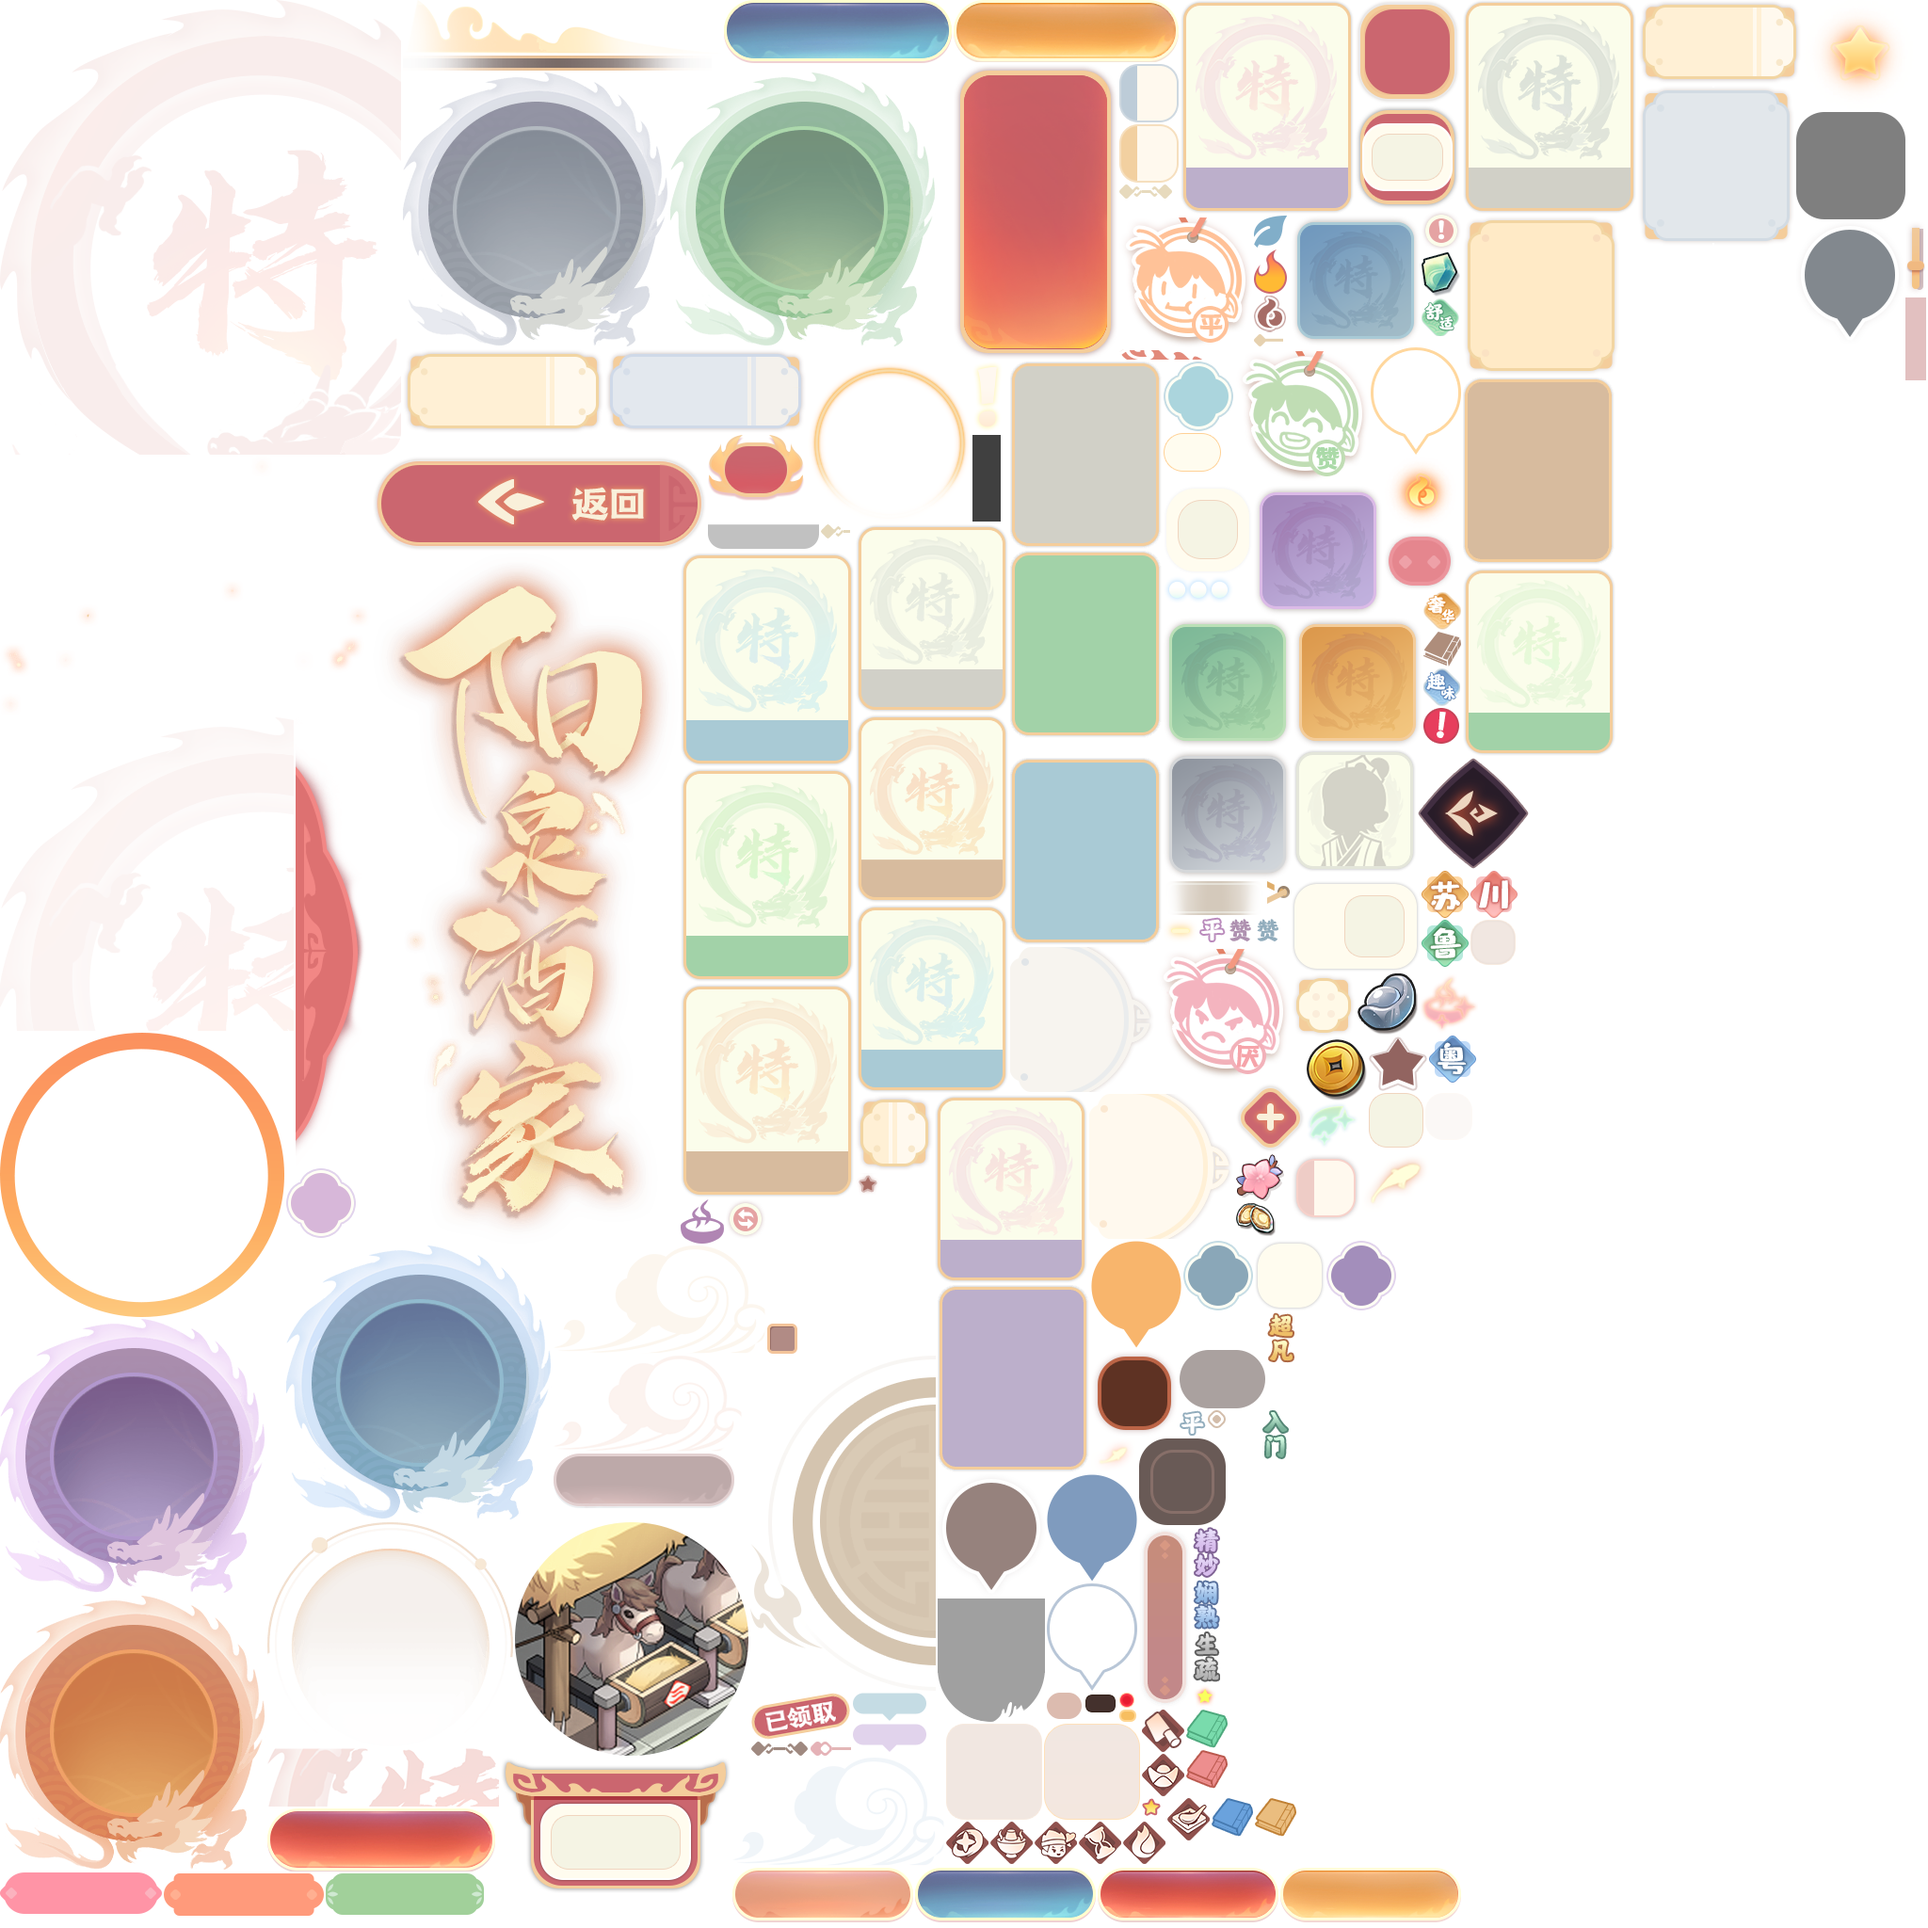
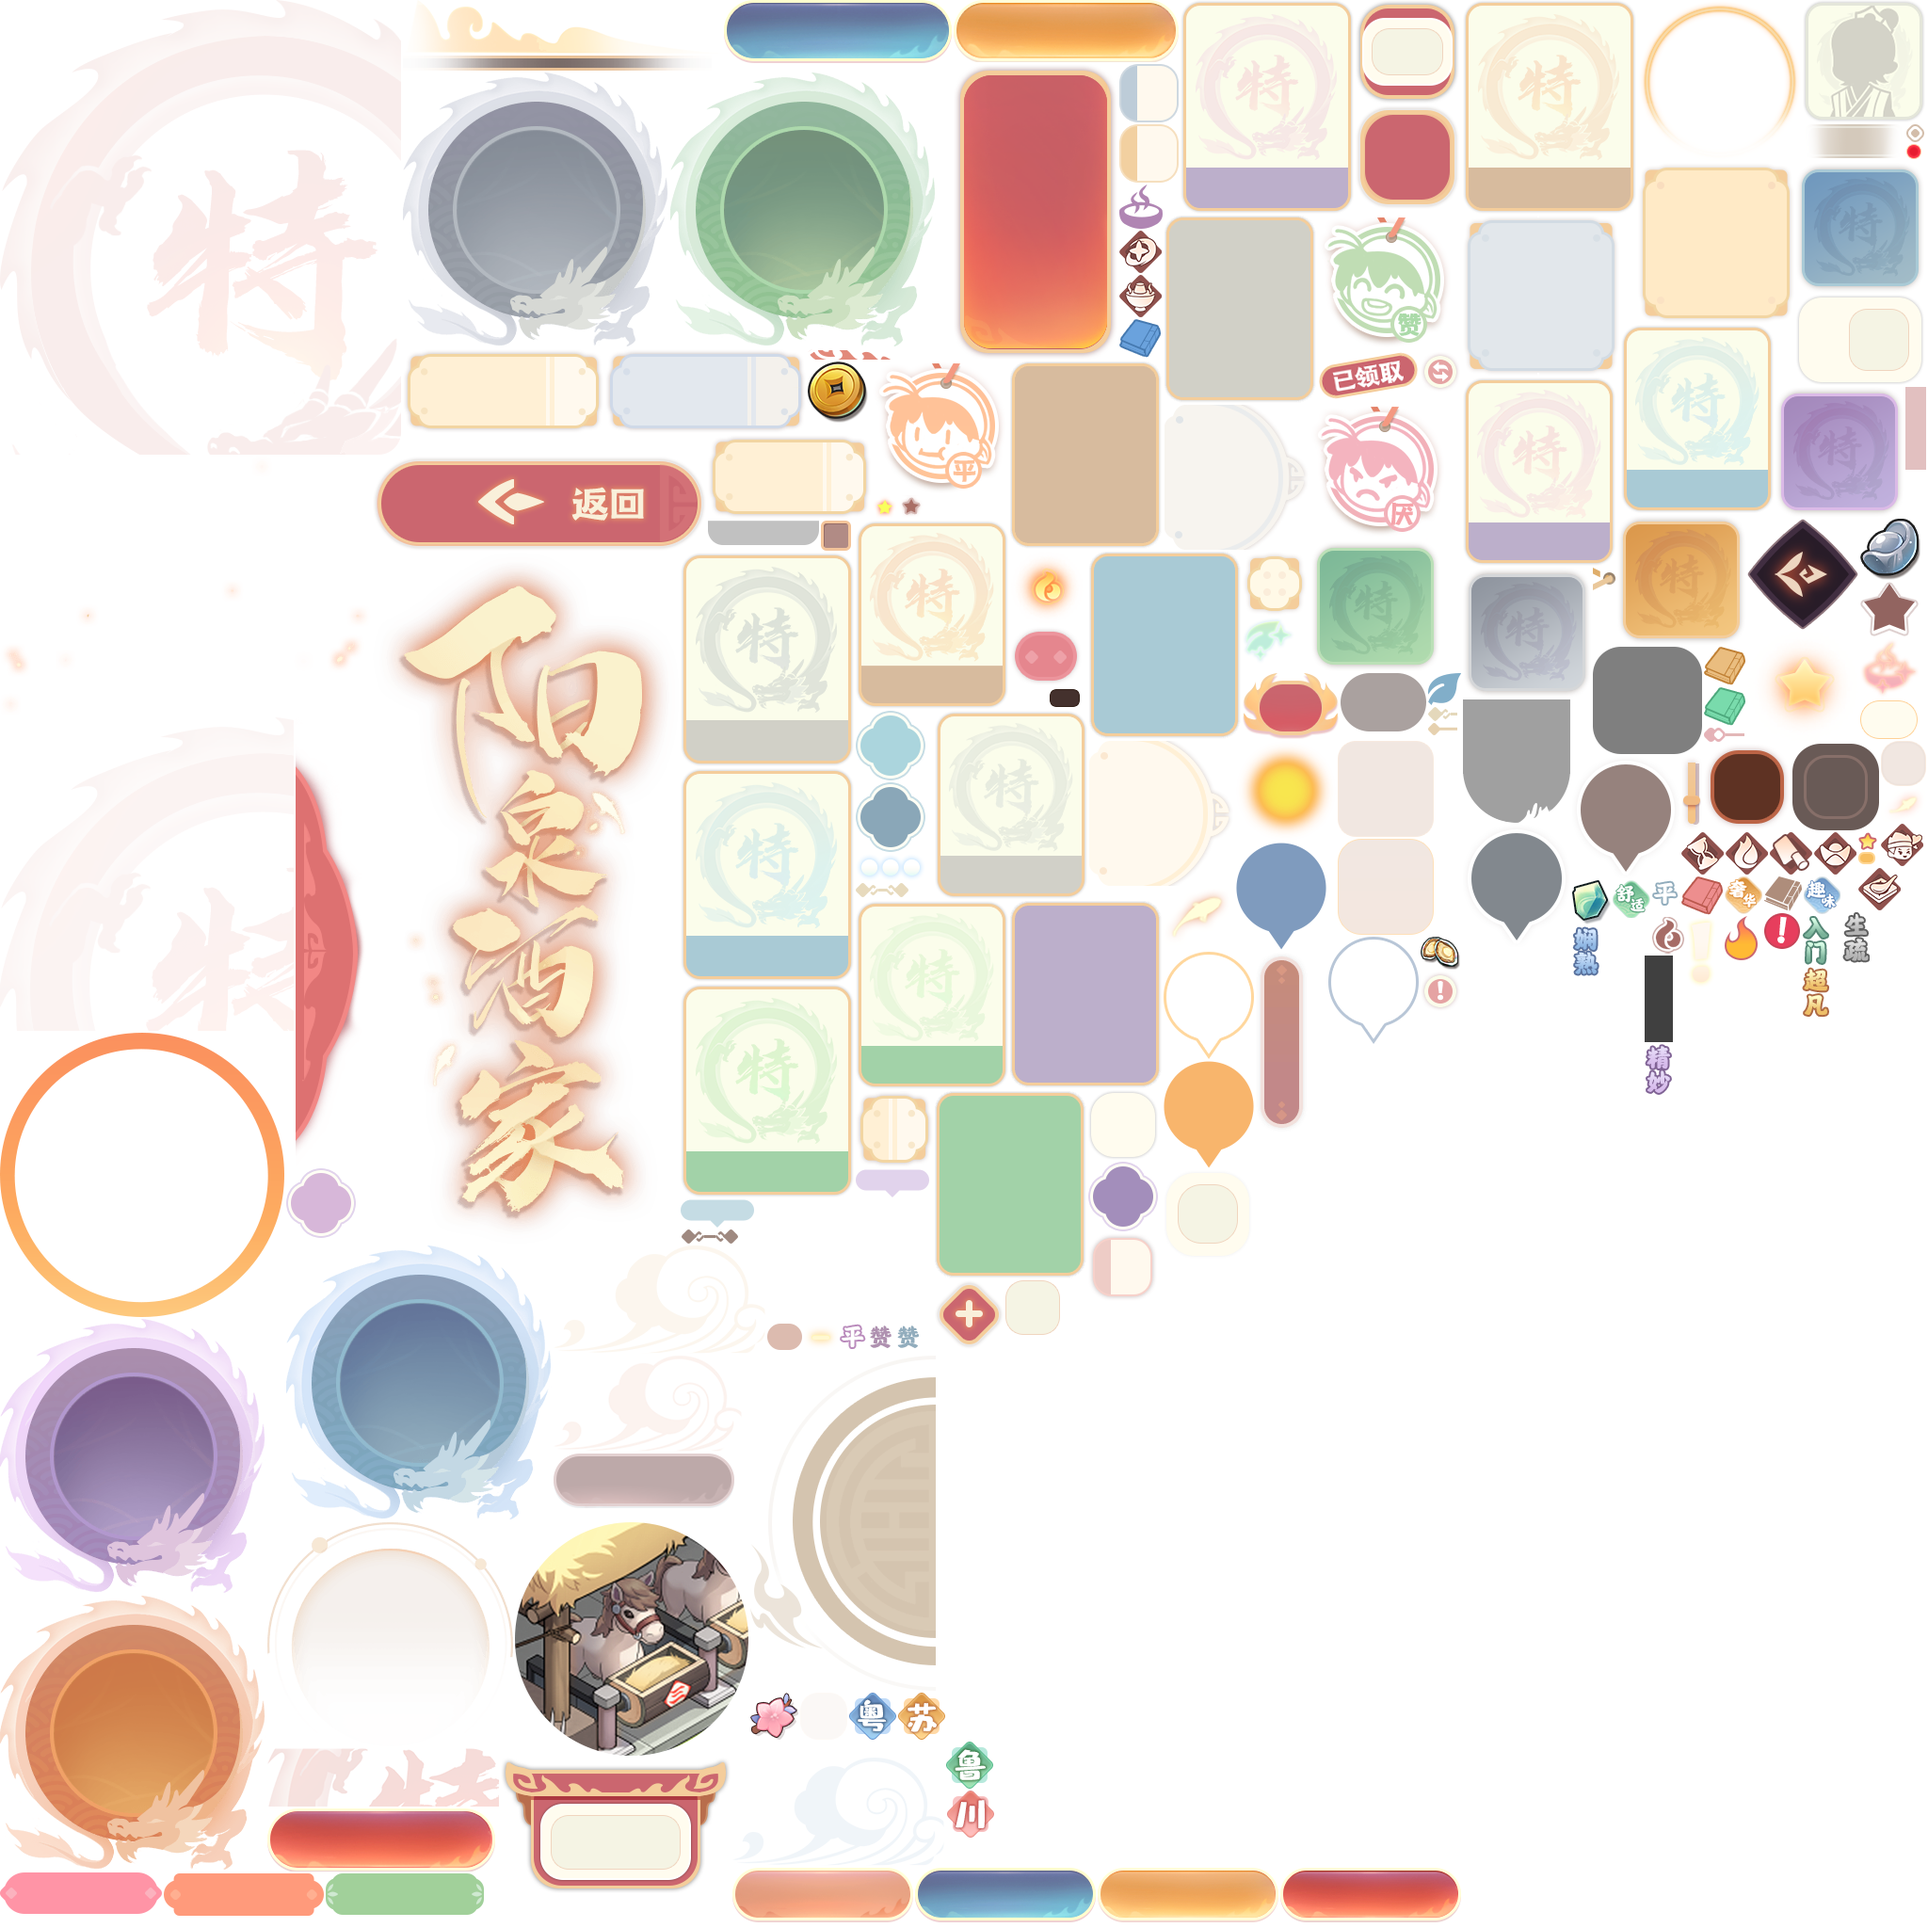
红点动画

Changed region(s): [[0.3438, 0.0, 1.0, 1.0]]

diff --git a/source/src/core/ui/ui/PkgMain/RenderGoods.ts b/source/src/core/ui/ui/PkgMain/RenderGoods.ts
@@ -5,10 +5,10 @@ import { ComRedDotView } from "../../view/PkgCommon/view/coms/ComRedDotView";
 export default class RenderGoods extends fgui.GButton {
 
 	public bg: fgui.GGraph;
-	public com_redDot: ComRedDotView;
-	public img_collect: fgui.GImage;
 	public txt_name: fgui.GTextField;
 	public txt_count: fgui.GTextField;
+	public com_redDot: ComRedDotView;
+	public img_collect: fgui.GImage;
 	public static URL: string = "ui://vith2b66sbd0z";
 
 	public static createInstance(): RenderGoods {
@@ -17,9 +17,9 @@ export default class RenderGoods extends fgui.GButton {
 
 	protected override onConstruct(): void {
 		this.bg = <fgui.GGraph>(this.getChildAt(0));
-		this.com_redDot = <ComRedDotView>(this.getChildAt(2));
-		this.img_collect = <fgui.GImage>(this.getChildAt(3));
-		this.txt_name = <fgui.GTextField>(this.getChildAt(4));
-		this.txt_count = <fgui.GTextField>(this.getChildAt(5));
+		this.txt_name = <fgui.GTextField>(this.getChildAt(2));
+		this.txt_count = <fgui.GTextField>(this.getChildAt(3));
+		this.com_redDot = <ComRedDotView>(this.getChildAt(4));
+		this.img_collect = <fgui.GImage>(this.getChildAt(5));
 	}
 }

diff --git a/source/src/core/ui/view/PkgCommon/controller/coms/ComRedDotCtrl.ts b/source/src/core/ui/view/PkgCommon/controller/coms/ComRedDotCtrl.ts
@@ -1,6 +1,6 @@
 import { GameEvent } from "../../../../../common/GameEvent";
 import { BaseViewCtrl } from "../../../../core/BaseViewCtrl";
-import { ComRedDotMsg, ComRedDotView } from "../../view/coms/ComRedDotView";
+import { ComRedDotView } from "../../view/coms/ComRedDotView";
 
 export interface ComRedDotData {
 
@@ -9,11 +9,19 @@ export interface ComRedDotData {
 export class ComRedDotCtrl extends BaseViewCtrl<ComRedDotView, ComRedDotData> {
 
     override onAdded() {
-        
+
     }
 
     override onAwake() {
         this.dispatch(GameEvent.RedDotCompAwake, this.view);
+    }
+
+    override onEnable() {
+        this.view.trans_anim.play(null, -1);
+    }
+
+    override onDisable() {
+        this.view.trans_anim.stop(false);
     }
 
     override onDestroy() {

diff --git a/source/src/core/ui/ui/PkgCommon/ComRedDot.ts b/source/src/core/ui/ui/PkgCommon/ComRedDot.ts
@@ -3,6 +3,7 @@
 export default class ComRedDot extends fgui.GComponent {
 
 	public img_redDot: fgui.GImage;
+	public trans_anim: fgui.Transition;
 	public static URL: string = "ui://vx9zwseryz4q6o";
 
 	public static createInstance(): ComRedDot {
@@ -11,5 +12,6 @@ export default class ComRedDot extends fgui.GComponent {
 
 	protected override onConstruct(): void {
 		this.img_redDot = <fgui.GImage>(this.getChildAt(0));
+		this.trans_anim = this.getTransitionAt(0);
 	}
 }
